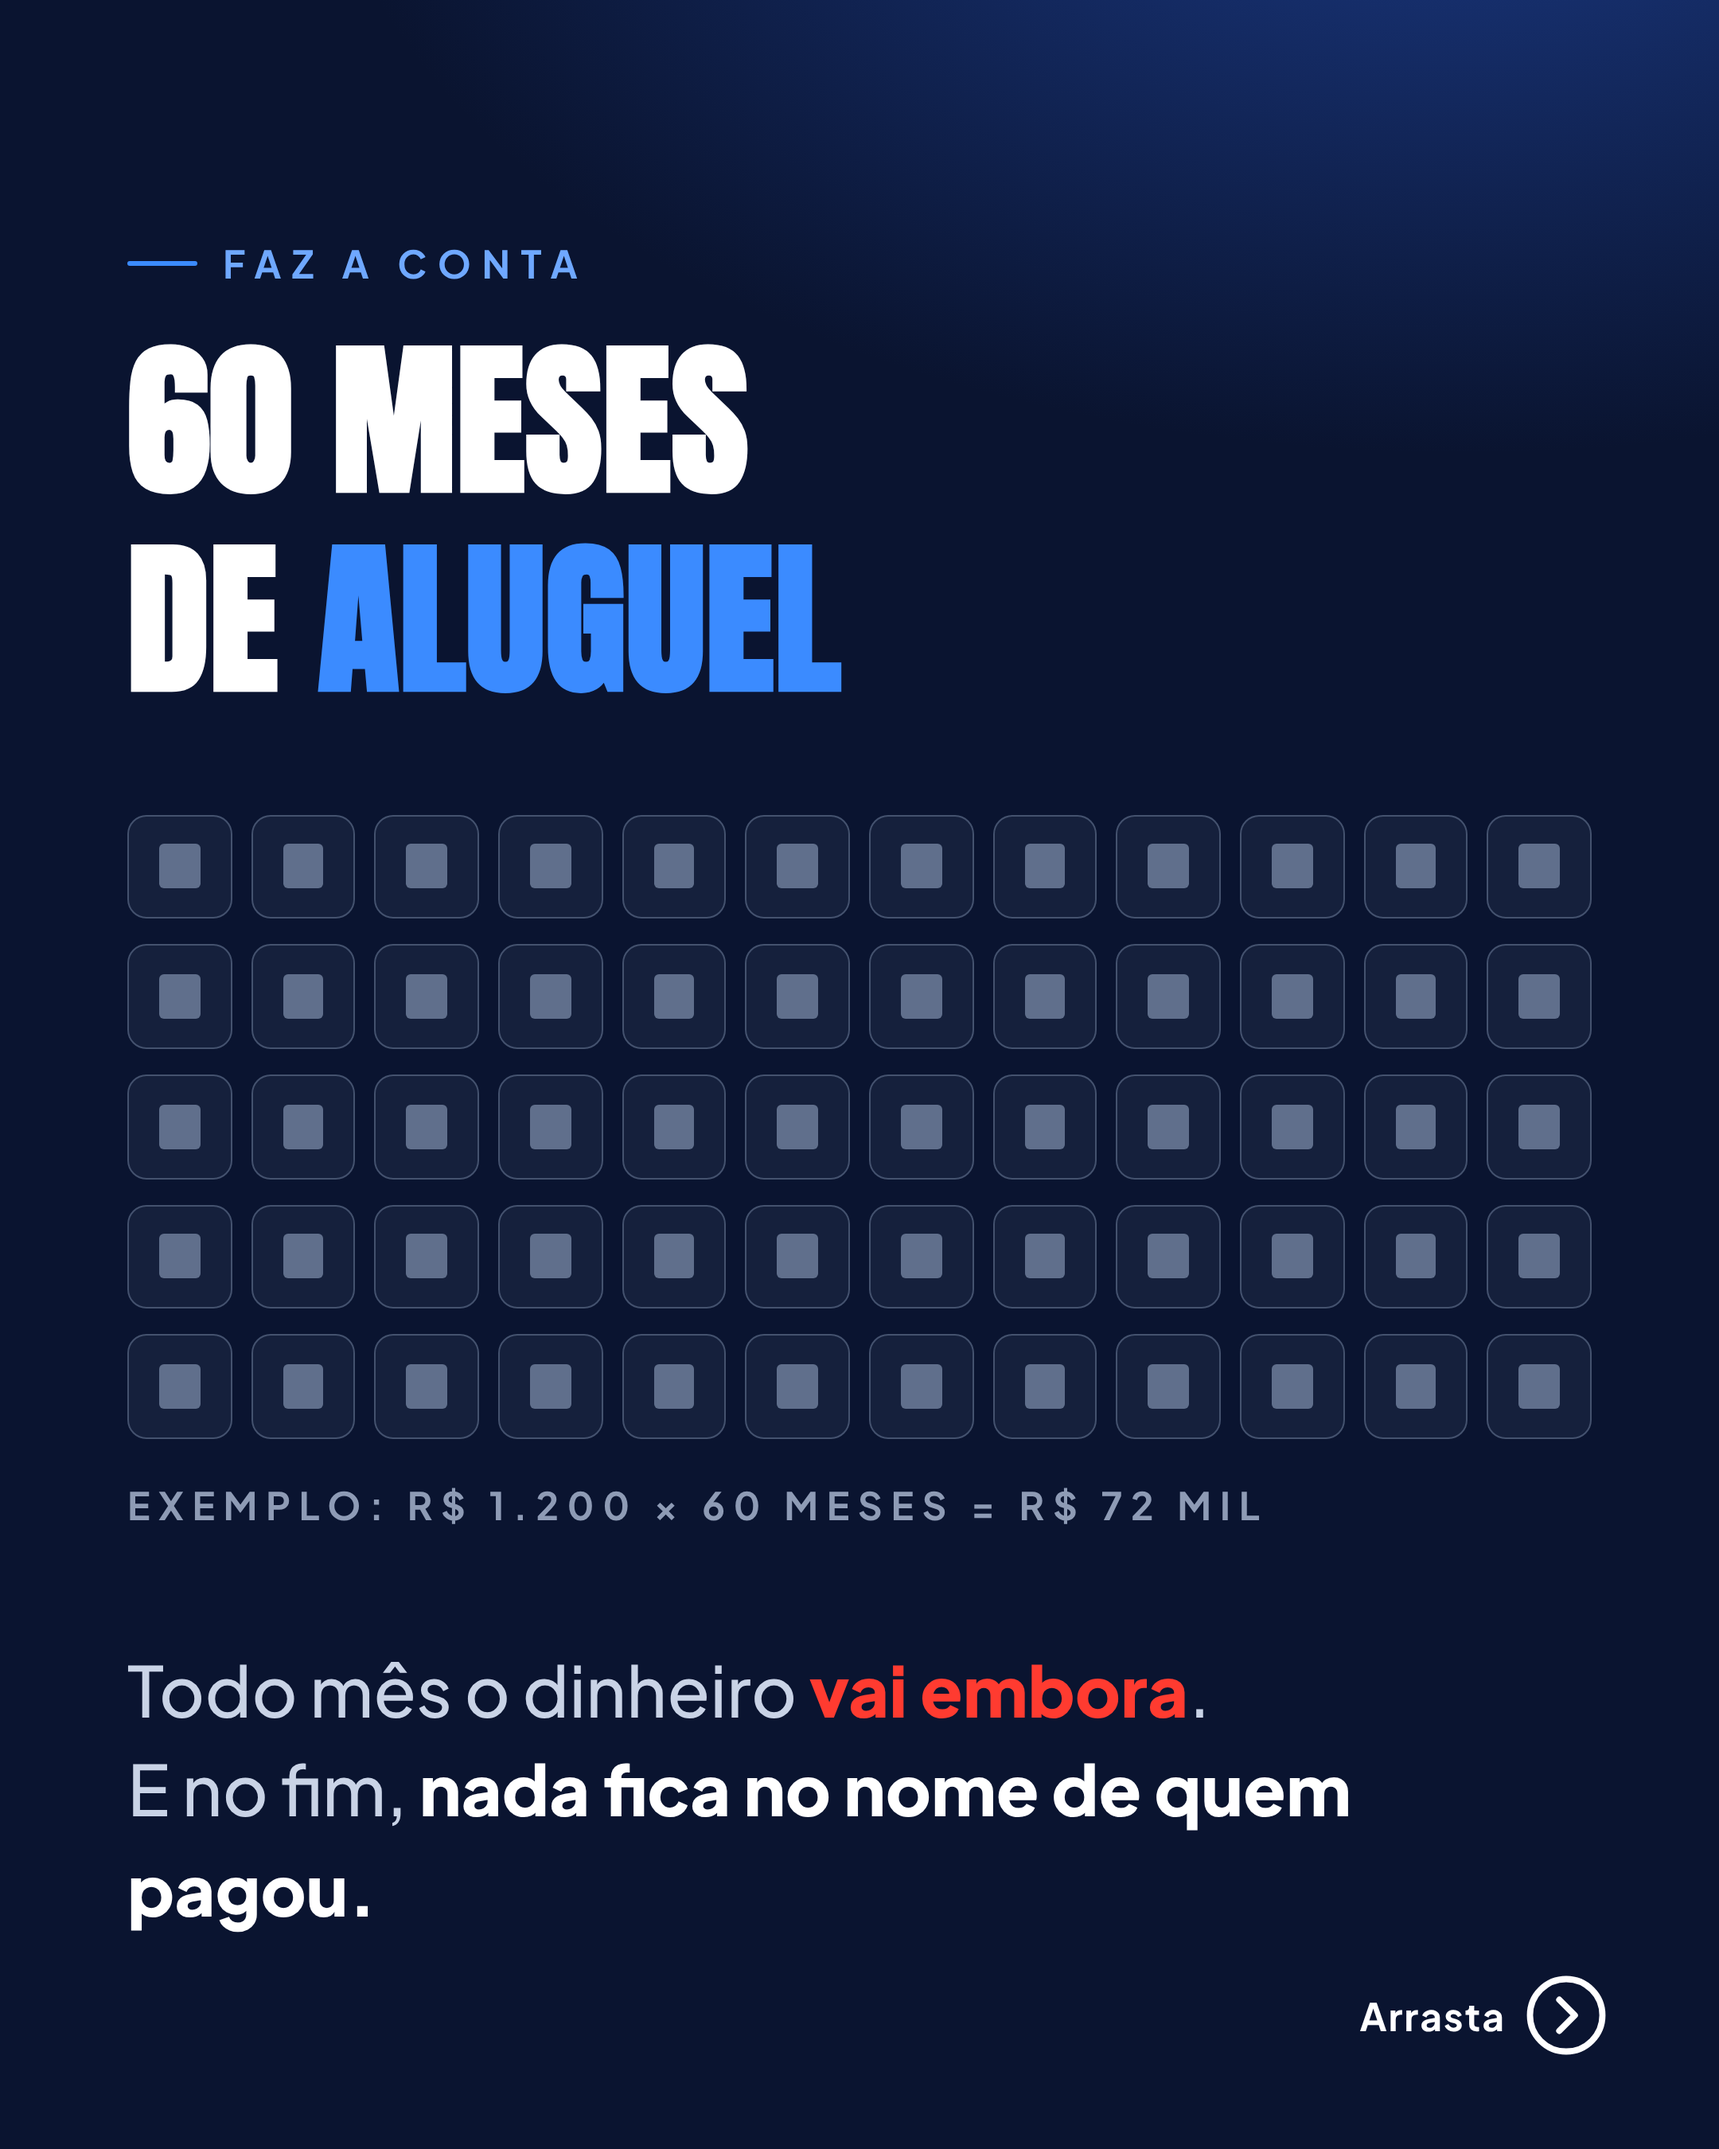
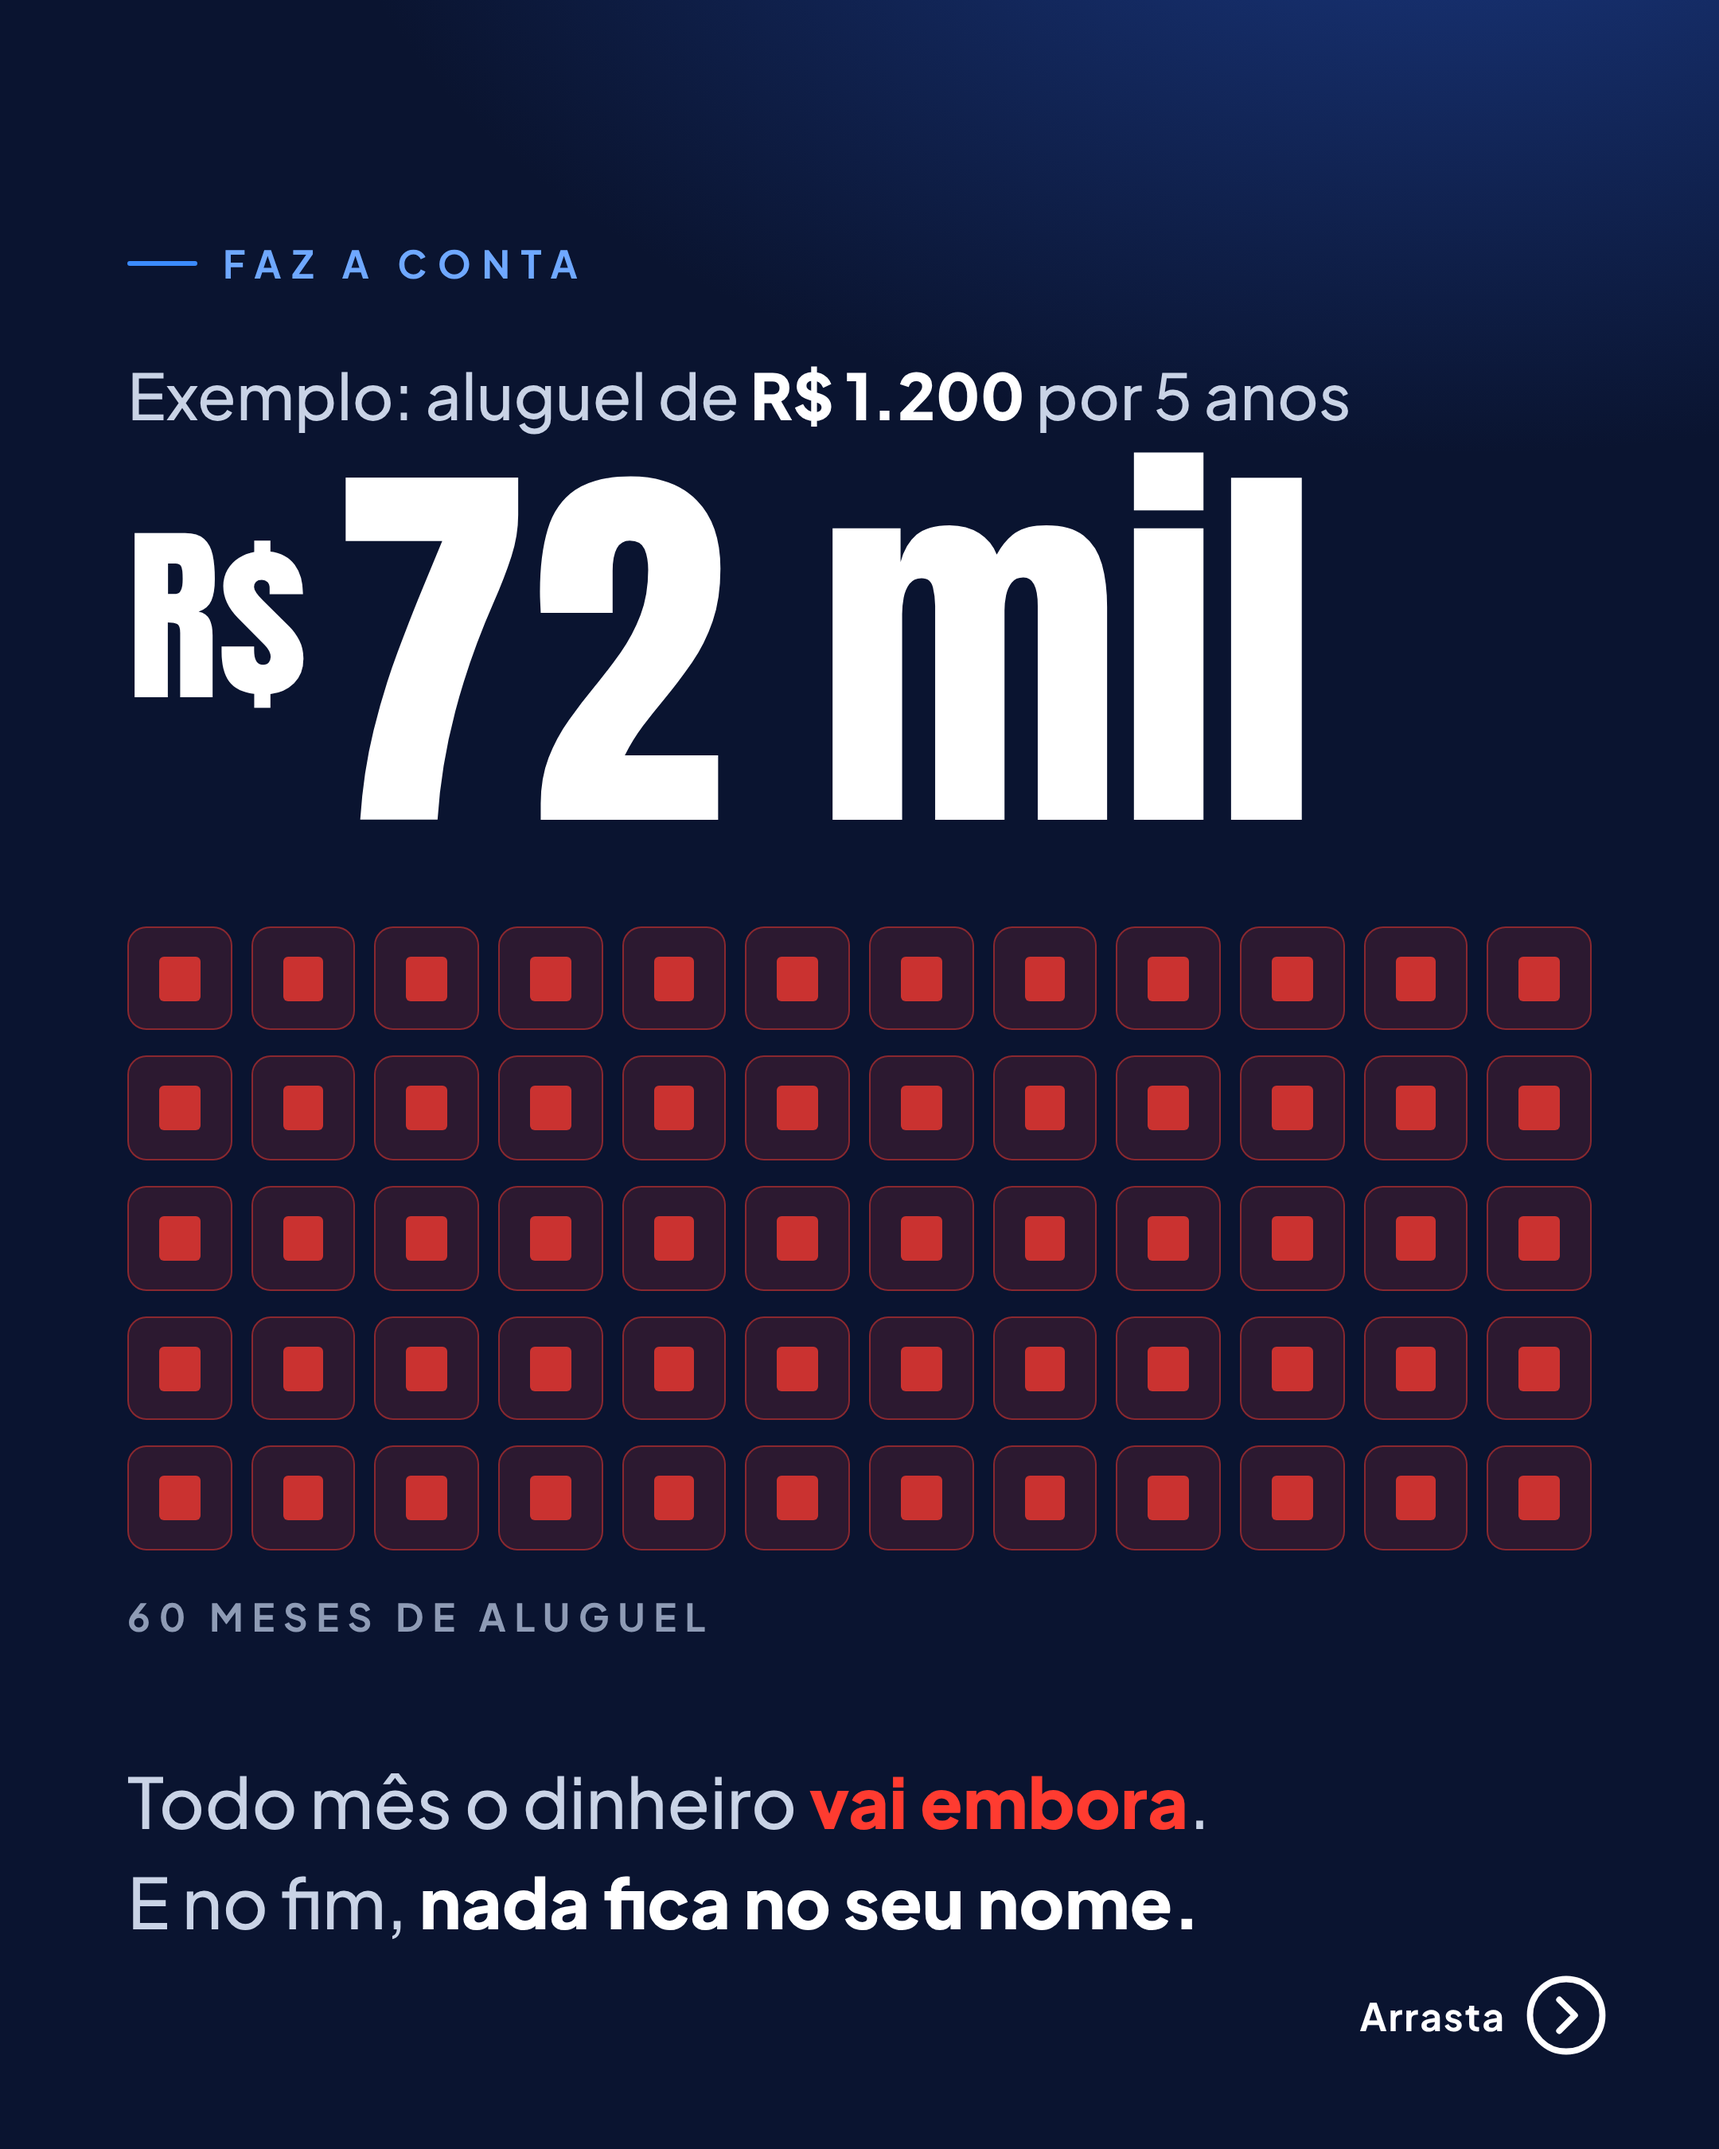
docs(posicionamento): anúncio aluguel volta capa, conta e CTA da 1ª versão (preferência do dono) + capa B para teste
Claude-Session: https://claude.ai/code/session_018X91MFfPMRMPYSAfb3KdfT

Changed region(s): [[0.062, 0.1556, 0.9306, 0.9022]]

diff --git a/docs/posicionamento/carrosseis/2026-10-12-anuncio-aluguel/laminas.html b/docs/posicionamento/carrosseis/2026-10-12-anuncio-aluguel/laminas.html
@@ -29,7 +29,7 @@
   .capa .pessoa { position:absolute; right:-170px; bottom:0; height:1000px; filter:drop-shadow(0 30px 60px rgba(0,0,0,.5));
     -webkit-mask-image:linear-gradient(90deg, transparent 0, #000 14%); mask-image:linear-gradient(90deg, transparent 0, #000 14%); }
   .capa .degrade { position:absolute; inset:0; background:linear-gradient(90deg, var(--navy) 0%, rgba(10,20,48,.82) 42%, rgba(10,20,48,0) 72%); }
-  .capa h1 { font-size:150px; line-height:1.1; }
+  .capa h1 { font-size:150px; line-height:1.17; }
   .capa .local { display:inline-flex; align-items:center; gap:12px; font-size:34px; font-weight:800; }
   .capa .local svg { width:40px; height:40px; stroke:var(--verm); stroke-width:2.2; }
   .capa .oferta { position:absolute; left:80px; bottom:150px; width:560px; background:var(--azul); border-radius:26px; padding:30px 34px; box-shadow:0 20px 50px rgba(0,0,0,.35); }
@@ -93,7 +93,7 @@
   .cta .pessoa { position:absolute; right:-210px; bottom:0; height:1060px; filter:drop-shadow(0 30px 60px rgba(0,0,0,.45)); }
   .cta .topo { position:absolute; left:80px; right:80px; top:100px; }
   .cta h2 { font-size:128px; }
-  .fone { position:absolute; left:80px; top:510px; width:450px; height:500px; border-radius:58px; background:#0B0F14; padding:16px; box-shadow:0 40px 80px rgba(0,0,0,.55), 0 0 0 2px #2A3242; }
+  .fone { position:absolute; left:90px; top:470px; width:450px; height:650px; border-radius:58px; background:#0B0F14; padding:16px; box-shadow:0 40px 80px rgba(0,0,0,.55), 0 0 0 2px #2A3242; transform:rotate(-4deg); }
   .tela { width:100%; height:100%; border-radius:44px; overflow:hidden; background:#ECE5DD; display:flex; flex-direction:column; }
   .tela .bar { background:#075E54; color:#fff; padding:44px 22px 18px; display:flex; align-items:center; gap:14px; }
   .tela .av { width:52px; height:52px; border-radius:50%; overflow:hidden; background:#cfd8dc; flex-shrink:0; }
@@ -101,7 +101,7 @@
   .tela .bar b { font-size:22px; display:block; }
   .tela .bar small { font-size:16px; opacity:.85; }
   .tela .msgs { flex:1; padding:22px 18px; display:flex; flex-direction:column; gap:14px; justify-content:flex-end; }
-  .bal { max-width:84%; padding:14px 18px 22px; border-radius:16px; font-size:27px; line-height:1.3; color:#111B21; position:relative; box-shadow:0 1px 1px rgba(0,0,0,.12); }
+  .bal { max-width:84%; padding:14px 18px 22px; border-radius:16px; font-size:24px; line-height:1.3; color:#111B21; position:relative; box-shadow:0 1px 1px rgba(0,0,0,.12); }
   .bal small { position:absolute; right:12px; bottom:5px; font-size:13px; color:#667781; }
   .bal.eu { align-self:flex-end; background:#D9FDD3; border-top-right-radius:4px; }
   .bal.ele { align-self:flex-start; background:#fff; border-top-left-radius:4px; }
@@ -111,19 +111,14 @@
   .tela .input svg { width:24px; height:24px; stroke:#fff; stroke-width:2.2; }
   .cta .botao { position:absolute; left:80px; bottom:120px; display:inline-flex; align-items:center; gap:16px; background:var(--zap); color:#062B16; font-weight:800; font-size:36px; padding:24px 36px; border-radius:999px; box-shadow:0 18px 40px rgba(0,0,0,.35); z-index:3; }
   .cta .botao svg { width:38px; height:38px; stroke:#062B16; stroke-width:2.4; }
-  .cta .rodape { position:absolute; left:80px; bottom:60px; font-size:26px; line-height:1.4; color:#AEB9CF; z-index:3; background:rgba(10,20,48,.75); padding:6px 12px 6px 0; border-radius:8px; }
+  .cta .rodape { position:absolute; left:80px; bottom:48px; font-size:23px; line-height:1.4; color:#AEB9CF; z-index:3; background:rgba(10,20,48,.75); padding:6px 12px 6px 0; border-radius:8px; }
 
   /* revisão design-critic (2026-10-12) */
-  .capa h1 { line-height:1.0; }
-  .capa .local svg { stroke:var(--azul); }
-  .capa .pessoa { right:-130px; -webkit-mask-image:linear-gradient(90deg, transparent 0, #000 7%); mask-image:linear-gradient(90deg, transparent 0, #000 7%); }
   .capa .grana { font-family:Anton, sans-serif; font-size:250px; line-height:1; margin-top:18px; }
   .capa .grana small { font-size:110px; vertical-align:top; line-height:1.45; margin-right:14px; }
   .capa .faixa { position:absolute; left:80px; bottom:150px; width:520px; border-left:6px solid var(--azul); padding:4px 0 4px 26px; }
   .capa .faixa b { display:block; font-size:40px; font-weight:800; line-height:1.2; }
   .capa .faixa span { display:block; font-size:32px; color:#C9D3E6; margin-top:6px; font-weight:600; }
-  .grade i { background:rgba(159,176,206,.08); border-color:rgba(159,176,206,.35); }
-  .grade i::after { background:rgba(159,176,206,.55); }
   .nota { font-size:30px !important; color:#B8C3D9 !important; }
   .cond2 { line-height:1.2 !important; }
   .vs .alu p:first-of-type svg { stroke:#9FB0CE; }
@@ -137,33 +132,34 @@
 </style></head>
 <body>
 
-<!-- 1 · CAPA — gancho numérico (sugestão do design-critic): muita gente só vê a 1ª lâmina -->
+<!-- 1 · CAPA (gancho + oferta: muita gente só vê a 1ª lâmina) -->
 <section class="lamina capa">
   <img class="pessoa" src="../../assets/boneco-3d/realista/chave.png" alt="">
   <span class="degrade"></span>
   <div class="corpo" style="top:150px">
-    <div class="local"><svg viewBox="0 0 24 24"><path d="M20 10c0 4.993-5.539 10.193-7.399 11.799a1 1 0 0 1-1.202 0C9.539 20.193 4 14.993 4 10a8 8 0 0 1 16 0" /> <circle cx="12" cy="10" r="3" /></svg> Aluguel em Marília</div>
-    <div class="grana"><small>R$</small>72 mil</div>
-    <p class="texto" style="margin-top:6px;width:500px;font-size:42px;color:#fff;font-weight:800;line-height:1.25">em 5 anos de aluguel.<br><span style="color:#C9D3E6;font-weight:600">E nada fica no nome de quem pagou.</span></p>
+    <div class="local"><svg viewBox="0 0 24 24"><path d="M20 10c0 4.993-5.539 10.193-7.399 11.799a1 1 0 0 1-1.202 0C9.539 20.193 4 14.993 4 10a8 8 0 0 1 16 0" /> <circle cx="12" cy="10" r="3" /></svg> Marília/SP</div>
+    <h1 class="cond" style="margin-top:26px">Do aluguel<br>à <em>casa<br>própria</em></h1>
+    <p class="texto" style="margin-top:30px;width:440px;font-size:35px">Pelo <b>Minha Casa Minha Vida</b>, pode estar mais perto do que você imagina.</p>
   </div>
-  <div class="faixa"><b>Do aluguel à <em>casa própria</em></b><span>Simulação gratuita pelo WhatsApp</span></div>
+  <div class="oferta"><b>Simulação gratuita pelo WhatsApp</b><span><svg viewBox="0 0 24 24"><circle cx="12" cy="12" r="10" /> <polyline points="12 6 12 12 16 14" /></svg> Sem compromisso</span></div>
   <div class="seta"><span>Arrasta</span><svg viewBox="0 0 24 24"><circle cx="12" cy="12" r="10.5"/><path d="M10 7.5 14.5 12 10 16.5"/></svg></div>
 </section>
 
-<!-- 2 · A CONTA (aluguel típico de quem chega pelos anúncios: R$ 1.001–1.500/mês, CRM out/2026) -->
+<!-- 2 · O PROBLEMA (aluguel típico de quem chega pelos anúncios: R$ 1.001–1.500/mês, CRM out/2026) -->
 <section class="lamina">
   <div class="corpo" style="top:150px">
     <div class="eyebrow">Faz a conta</div>
-    <h2 class="cond titulo cond2" style="font-size:104px">60 meses<br>de <em>aluguel</em></h2>
+    <p class="texto" style="margin-top:40px;font-size:40px">Exemplo: aluguel de <b>R$ 1.200</b> por 5 anos</p>
+    <div class="numero" style="margin-top:20px;font-size:250px"><span style="font-size:120px;vertical-align:top;line-height:1.5;margin-right:16px">R$</span>72 mil</div>
     <div class="grade">
       <i></i><i></i><i></i><i></i><i></i><i></i><i></i><i></i><i></i><i></i><i></i><i></i>
       <i></i><i></i><i></i><i></i><i></i><i></i><i></i><i></i><i></i><i></i><i></i><i></i>
       <i></i><i></i><i></i><i></i><i></i><i></i><i></i><i></i><i></i><i></i><i></i><i></i>
       <i></i><i></i><i></i><i></i><i></i><i></i><i></i><i></i><i></i><i></i><i></i><i></i>
       <i></i><i></i><i></i><i></i><i></i><i></i><i></i><i></i><i></i><i></i><i></i><i></i>
-      <span class="ano">Exemplo: R$ 1.200 × 60 meses = R$ 72 mil</span>
+      <span class="ano">60 meses de aluguel</span>
     </div>
-    <p class="texto" style="margin-top:70px;font-size:44px">Todo mês o dinheiro <b class="neg">vai embora</b>.<br>E no fim, <b>nada fica no nome de quem pagou.</b></p>
+    <p class="texto" style="margin-top:70px;font-size:44px">Todo mês o dinheiro <b class="neg">vai embora</b>.<br>E no fim, <b>nada fica no seu nome.</b></p>
   </div>
   <div class="seta"><span>Arrasta</span><svg viewBox="0 0 24 24"><circle cx="12" cy="12" r="10.5"/><path d="M10 7.5 14.5 12 10 16.5"/></svg></div>
 </section>
@@ -217,24 +213,25 @@
   <div class="seta"><span>Arrasta</span><svg viewBox="0 0 24 24"><circle cx="12" cy="12" r="10.5"/><path d="M10 7.5 14.5 12 10 16.5"/></svg></div>
 </section>
 
-<!-- 6 · CTA — sem botão falso: a instrução aponta para o botão real "Enviar mensagem" -->
+<!-- 6 · CTA (o botão real do anúncio é "Enviar mensagem") -->
 <section class="lamina cta">
   <span class="fundo"></span>
   <img class="pessoa" src="../../assets/boneco-3d/realista/apontando.png" alt="">
-  <div class="topo" style="top:150px">
+  <div class="topo">
     <div class="eyebrow">Seu próximo passo</div>
-    <h2 class="cond cond2" style="margin-top:20px;font-size:118px">Faça sua<br><em>simulação</em></h2>
+    <h2 class="cond" style="margin-top:20px;font-size:118px">Faça sua<br><em>simulação</em></h2>
   </div>
   <div class="fone"><div class="tela">
     <div class="bar"><span class="av"><img src="../../assets/boneco-3d/realista/joinha.png" alt=""></span><p><b>Matheus Machado</b><small>Corretor de imóveis</small></p></div>
     <div class="msgs">
       <div class="bal eu">Olá! Quero fazer minha simulação 🏠<small>19:02 ✓✓</small></div>
       <div class="bal ele">Oi! Vamos ver o que cabe no seu bolso 😊<small>19:03</small></div>
+      <div class="bal ele">Me conta sua renda e se tem FGTS 📋<small>19:03</small></div>
     </div>
     <div class="input"><span></span><i><svg viewBox="0 0 24 24"><path d="M14.536 21.686a.5.5 0 0 0 .937-.024l6.5-19a.496.496 0 0 0-.635-.635l-19 6.5a.5.5 0 0 0-.024.937l7.93 3.18a2 2 0 0 1 1.112 1.11z" /> <path d="m21.854 2.147-10.94 10.939" /></svg></i></div>
   </div></div>
-  <div class="instrucao"><b>Toque em <em>Enviar mensagem</em></b><span><svg viewBox="0 0 24 24"><path d="M12 5v14" /> <path d="m19 12-7 7-7-7" /></svg> aqui embaixo</span></div>
-  <div class="rodape">CRECI 323106-F<br>Simulação sujeita à análise de crédito.</div>
+  <div class="botao"><svg viewBox="0 0 24 24"><path d="M7.9 20A9 9 0 1 0 4 16.1L2 22Z" /></svg> Toque em Enviar mensagem</div>
+  <div class="rodape">Matheus Machado · Corretor de imóveis · CRECI 323106-F<br>Simulação sujeita à análise de crédito.</div>
 </section>
 
 </body></html>
